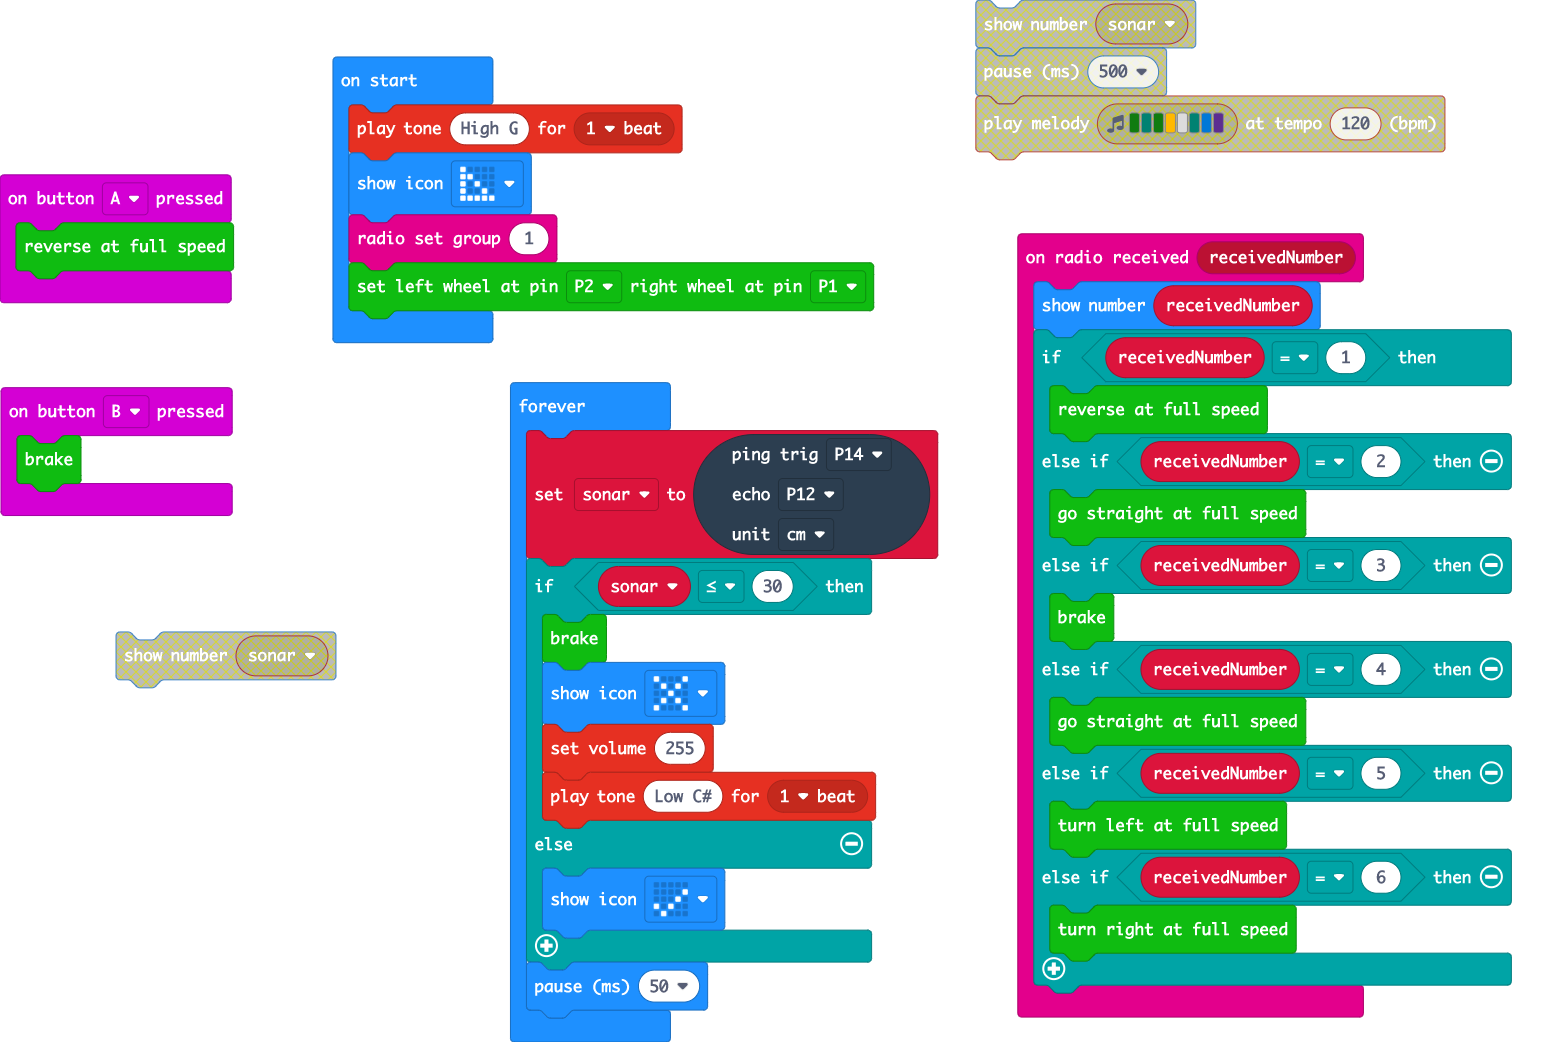
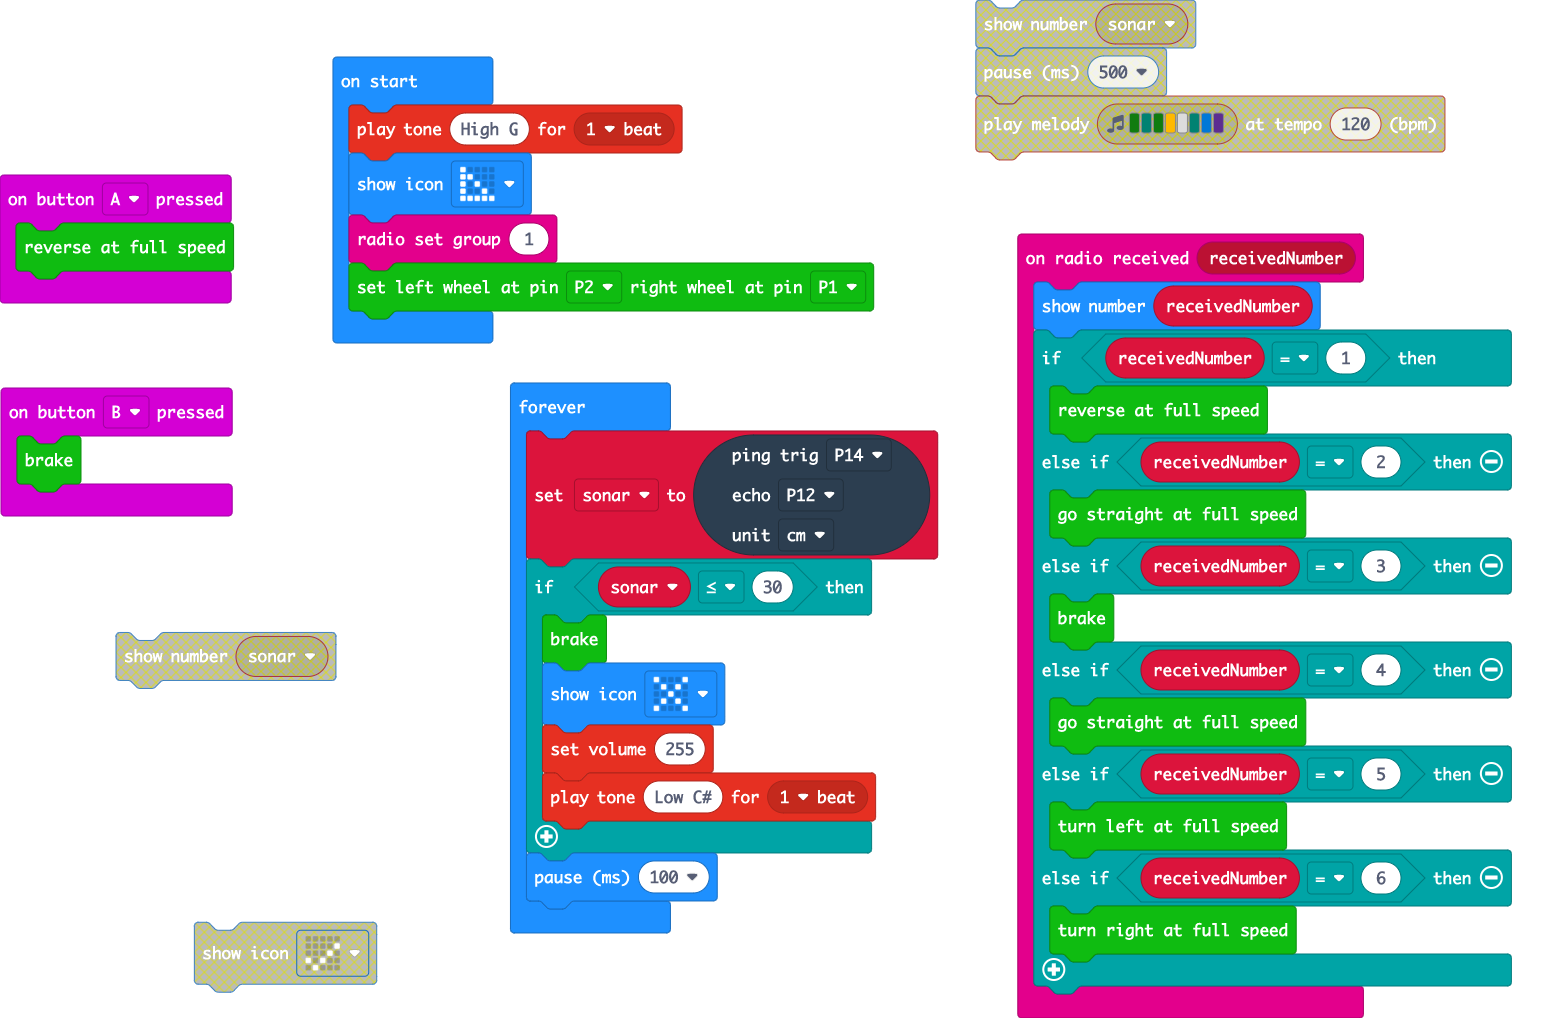
Update main.blocks, main.ts

diff --git a/main.ts b/main.ts
@@ -36,8 +36,6 @@ basic.forever(function () {
         basic.showIcon(IconNames.No)
         music.setVolume(255)
         music.playTone(139, music.beat(BeatFraction.Whole))
-    } else {
-        basic.showIcon(IconNames.Yes)
     }
-    basic.pause(50)
+    basic.pause(100)
 })
